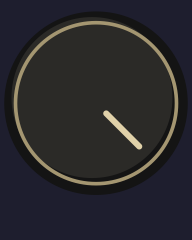
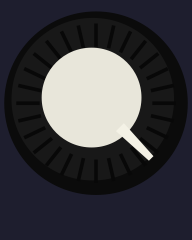
feat(grainfield): calibrate procedural knob geometry

Changed region(s): [[0.0625, 0.0583, 0.9375, 0.7875]]

diff --git a/grainfield_editor.hpp b/grainfield_editor.hpp
@@ -69,21 +69,64 @@ public:
         const float angle = pulp::view::Knob::start_angle +
                             (pulp::view::Knob::end_angle - pulp::view::Knob::start_angle) * value();
 
-        canvas.set_fill_color(pulp::canvas::Color::rgba8(20, 20, 20));
-        canvas.fill_circle(cx, cy, radius * 1.14f);
-        canvas.set_fill_color(pulp::canvas::Color::rgba8(43, 42, 39));
-        canvas.fill_circle(cx - radius * 0.05f, cy - radius * 0.07f, radius);
-        canvas.set_stroke_color(pulp::canvas::Color::rgba8(164, 150, 113));
-        canvas.set_line_width(std::max(1.0f, radius * 0.045f));
-        canvas.stroke_circle(cx, cy, radius);
+        // The straight-on reference shows a black, physically segmented
+        // annulus around a pale inset cap.  Keep this entirely procedural:
+        // the reference photo is provenance only and is never embedded.
+        const float outer_radius = radius * 1.14f;
+        canvas.set_fill_color(pulp::canvas::Color::rgba8(11, 11, 11));
+        canvas.fill_circle(cx, cy, outer_radius);
+        canvas.set_fill_color(pulp::canvas::Color::rgba8(24, 24, 24));
+        canvas.fill_circle(cx - radius * 0.04f, cy - radius * 0.05f,
+                           radius * 1.01f);
 
-        canvas.set_stroke_color(pulp::canvas::Color::rgba8(224, 209, 169));
-        canvas.set_line_cap(pulp::canvas::LineCap::round);
-        canvas.set_line_width(std::max(1.2f, radius * 0.075f));
-        canvas.stroke_line(cx + radius * 0.18f * std::cos(angle),
-                           cy + radius * 0.18f * std::sin(angle),
-                           cx + radius * 0.76f * std::cos(angle),
-                           cy + radius * 0.76f * std::sin(angle));
+        // Recessed radial grooves break up the annulus without relying on
+        // image assets. Their spacing is stable at every control size.
+        canvas.set_stroke_color(pulp::canvas::Color::rgba8(8, 8, 8));
+        canvas.set_line_cap(pulp::canvas::LineCap::butt);
+        canvas.set_line_width(std::max(1.0f, radius * 0.045f));
+        constexpr int kGrooveCount = 28;
+        constexpr float kTwoPi = 6.28318530717958647692f;
+        for (int i = 0; i < kGrooveCount; ++i) {
+            const float groove_angle =
+                static_cast<float>(i) * kTwoPi /
+                static_cast<float>(kGrooveCount);
+            canvas.stroke_line(
+                cx + radius * 0.70f * std::cos(groove_angle),
+                cy + radius * 0.70f * std::sin(groove_angle),
+                cx + radius * 0.99f * std::cos(groove_angle),
+                cy + radius * 0.99f * std::sin(groove_angle));
+        }
+
+        // The measured reference cap occupies approximately 53–61% of the
+        // outer diameter.  A 0.62-radius inset lands at the middle of that
+        // range after the outer shadow is included.
+        canvas.set_fill_color(pulp::canvas::Color::rgba8(232, 230, 218));
+        canvas.fill_circle(cx - radius * 0.055f, cy - radius * 0.07f,
+                           radius * 0.62f);
+
+        // Broad trapezoid pointer: the reference is a white slot rather than
+        // the prior 6 px hairline.  It remains centered on the existing Knob
+        // value angle, preserving automation and gesture semantics.
+        const float ux = std::cos(angle);
+        const float uy = std::sin(angle);
+        const float px = -uy;
+        const float py = ux;
+        const float inner = radius * 0.42f;
+        const float outer = radius * 0.97f;
+        const float inner_half_width = radius * 0.070f;
+        const float outer_half_width = radius * 0.040f;
+        const pulp::canvas::Canvas::Point2D pointer[] = {
+            {cx + ux * inner + px * inner_half_width,
+             cy + uy * inner + py * inner_half_width},
+            {cx + ux * inner - px * inner_half_width,
+             cy + uy * inner - py * inner_half_width},
+            {cx + ux * outer - px * outer_half_width,
+             cy + uy * outer - py * outer_half_width},
+            {cx + ux * outer + px * outer_half_width,
+             cy + uy * outer + py * outer_half_width},
+        };
+        canvas.set_fill_color(pulp::canvas::Color::rgba8(244, 242, 230));
+        canvas.fill_path(pointer, 4);
 
         // A restrained amber outer arc makes an enabled product-local LFO
         // visible without changing the original panel's black-and-brass knob.
